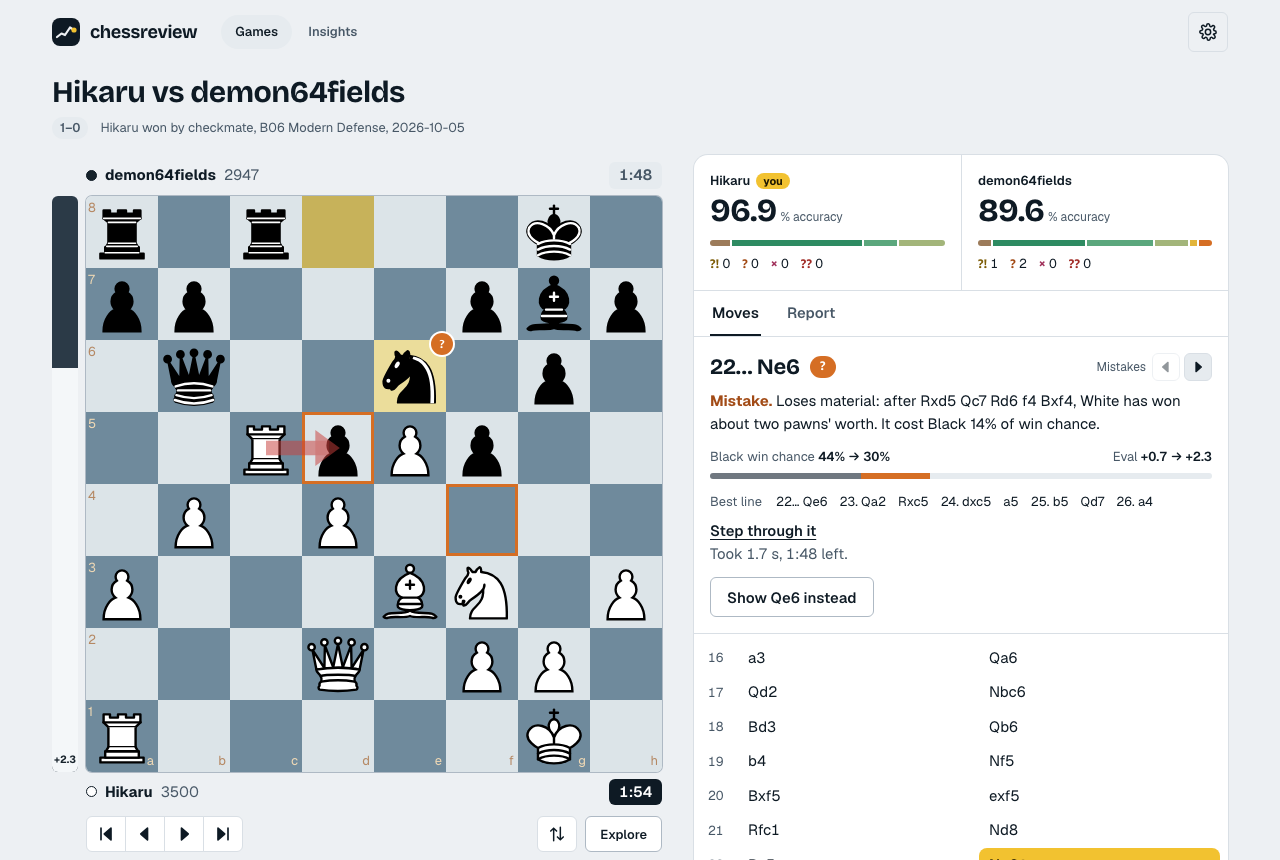
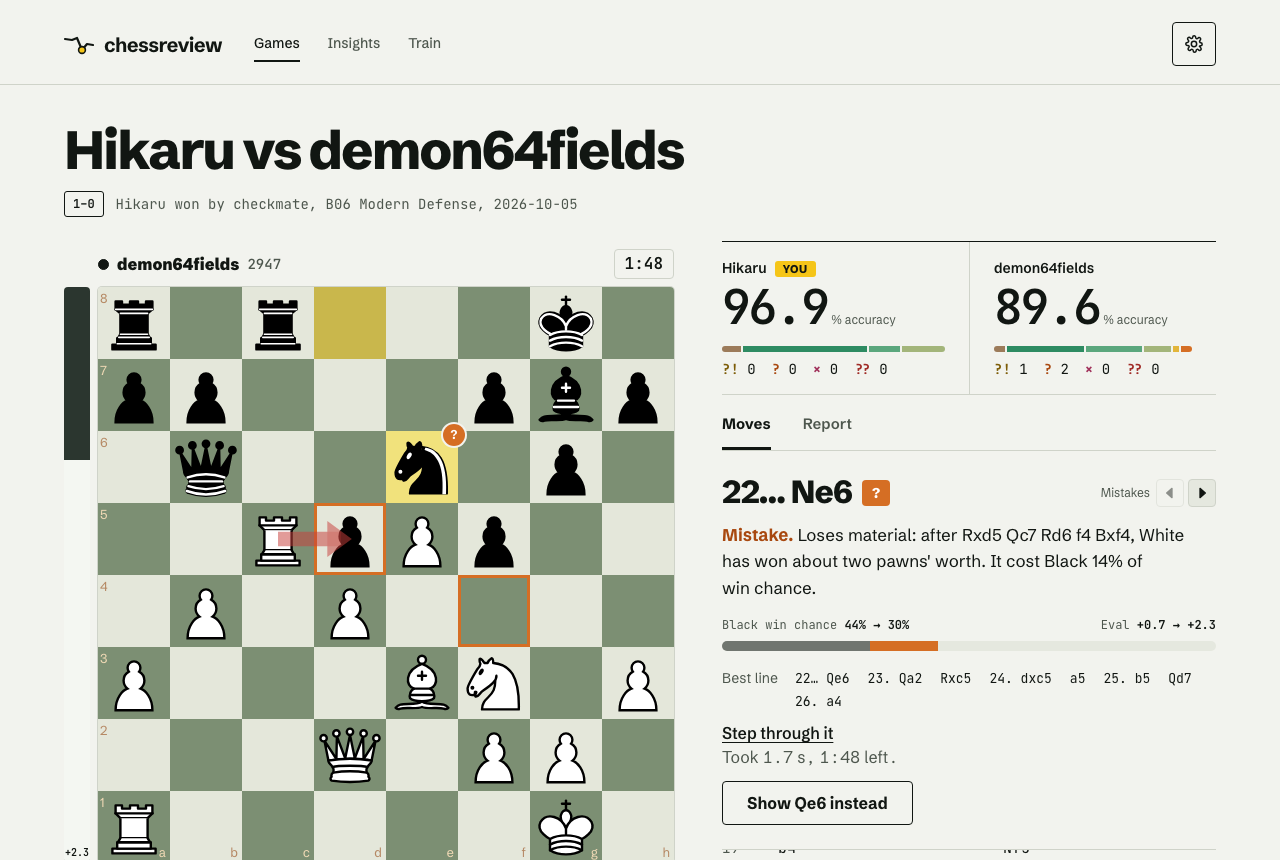
Test the game filters, record the redesign and refresh the screenshots

diff --git a/apps/web/e2e/review.spec.ts b/apps/web/e2e/review.spec.ts
@@ -231,3 +231,48 @@ test('pressing Load again fetches the latest games for the same username', async
   await expect(page.locator('.gamerow')).toHaveCount(2)
   expect(requests).toBeGreaterThan(before)
 })
+
+test('filters the game list by result and by whether it is reviewed', async ({ page }) => {
+  const game = (result: string, endTime: number) => ({
+    url: `https://www.chess.com/game/live/${endTime}`,
+    pgn: `[White "Morphy"]\n[Black "Duke"]\n[Result "${result}"]\n\n1. e4 e5 ${result}`,
+    rules: 'chess',
+    time_class: 'rapid',
+    time_control: '600',
+    end_time: endTime,
+    white: { username: 'Morphy', rating: 2500, result: result === '1-0' ? 'win' : 'resigned' },
+    black: { username: 'Duke', rating: 1200, result: result === '1-0' ? 'resigned' : 'win' },
+  })
+  const games = [game('1-0', 1_790_000_500), game('0-1', 1_790_000_000)]
+  await page.route('https://api.chess.com/**', (route) =>
+    route.request().url().endsWith('/games/archives')
+      ? json(route, { archives: ['https://api.chess.com/pub/player/morphy/games/2026/09'] })
+      : json(route, { games }),
+  )
+
+  await page.goto('/')
+  await page.getByLabel('chess.com username').fill('morphy')
+  await page.getByRole('button', { name: 'Load games' }).click()
+  await expect(page.locator('.gamerow')).toHaveCount(2)
+  await expect(page.getByText('morphy on chess.com · 2 games · 0 reviewed')).toBeVisible()
+
+  const filter = (name: RegExp) =>
+    page.getByRole('group', { name: 'Filter games' }).getByRole('button', { name })
+  await filter(/^Wins/).click()
+  await expect(page.locator('.gamerow')).toHaveCount(1)
+  await expect(page.locator('.gamerow')).toContainText('Won')
+  await expect(filter(/^Wins/)).toHaveAttribute('aria-pressed', 'true')
+
+  await filter(/^Losses/).click()
+  await expect(page.locator('.gamerow')).toHaveCount(1)
+  await expect(page.locator('.gamerow')).toContainText('Lost')
+
+  await filter(/^Reviewed/).click()
+  await expect(page.locator('.gamerow')).toHaveCount(0)
+  await expect(page.getByText('No games match this filter.')).toBeVisible()
+
+  await filter(/^Not reviewed/).click()
+  await expect(page.locator('.gamerow')).toHaveCount(2)
+  await filter(/^All/).click()
+  await expect(page.locator('.gamerow')).toHaveCount(2)
+})

diff --git a/docs/adr/0009-scorebook-redesign.md b/docs/adr/0009-scorebook-redesign.md
@@ -1,0 +1,53 @@
+# ADR 0009: The Scorebook redesign
+
+Status: accepted. It builds on [ADR 0008](0008-visual-design-system.md): the trace and the single yellow
+accent stay; the look around them changes.
+
+## Context
+
+ADR 0008 gave the product an identity, but the surface was still a stack of white cards on a blue-grey
+ground, in a display face used nowhere else. It read as a generic dashboard, and the dense screens (a review,
+the game list, Insights) spent their space on boxes instead of on the numbers and the board.
+
+The new look was designed on a canvas first (three directions for the home screen, then every main screen in
+the chosen one), and built from that design.
+
+## Decision
+
+1. **One identity, two themes.** The light theme is a scorebook: pale paper, black ink, hairline rules where
+   cards used to be, numbers in a monospace face. The dark theme is a near-black green with the same
+   structure and the same yellow. Both are defined once in `tokens.css` with `light-dark()`.
+2. **Rules, not boxes.** Sections are separated by a 1 px rule (a strong one above a section, a light one
+   between rows) and whitespace. Cards survive only where something is a separate object: the settings panel,
+   an error, the batch progress bar. Corners are 4 px, board and panels 6 px.
+3. **Numbers are monospace.** Accuracy, clocks, evaluations, move lists, counts and dates use JetBrains Mono;
+   everything else uses Schibsted Grotesk. Headlines are heavy (weight 800) with tight tracking.
+4. **The trace is bigger and carries the flags.** On the home page and under a review it is a full-width dark
+   strip. Its axis labels sit on their own dark chip, so they stay legible over the light fill.
+5. **Games get filters.** All, Reviewed, Not reviewed, Wins and Losses, with counts, and one yellow action:
+   "Review all N new games". Yellow is still the only accent, now also the primary action of a screen
+   (`.cta`).
+6. **A new board colour, Sage, is the default.** Slate, Green and Brown stay. Anyone who chose one keeps it.
+7. **Train shows where the mistake happened.** A puzzle carries a small trace of its game with the moment
+   marked, drawn from the stored review when that game is still on the device.
+8. **Fonts.** The text face comes from its package. The monospace face is declared by hand with its Latin
+   subset only, because the package's own stylesheet declares six scripts and cost about 2.7 KB of gzipped CSS
+   for characters the app never draws in monospace.
+
+## Alternatives
+
+- **A (light) with a separate dark design.** Rejected: two identities to maintain.
+- **A bold colour-block "poster" look.** Distinctive, but loud on dense screens; kept on the design canvas
+  only.
+- **A dark-first look.** The trace reads best on dark, but a light theme would then be an afterthought.
+
+## Consequences
+
+✓ Denser screens: the board, the explanation and the numbers get the room the boxes used.
+
+✓ Accessibility checks (axe, both themes) pass; the dark chip behind the axis labels came out of them.
+
+✗ The stylesheet grew from 7.8 to 8.2 KB gzipped, so the budget in `scripts/check-bundle.mjs` moves from
+8 KB to 9 KB.
+
+✗ Text is 16 px where it was 15 px, so some rows are a little taller.

diff --git a/CHANGELOG.md b/CHANGELOG.md
@@ -10,6 +10,12 @@ Proposed in open pull requests; each entry moves here when it is merged.
 
 ### Changed
 
+- A new look, "Scorebook" ([ADR 0009](docs/adr/0009-scorebook-redesign.md)): hairline rules instead of cards,
+  monospace numbers, heavier headlines, a full-width trace on the home page and under every review, and a
+  near-black green dark theme. The game list gets filters (all, reviewed, not reviewed, wins, losses) and a
+  yellow "Review all" action, Train shows where in your game each puzzle came from, and the settings panel
+  has a header and a close button. A new board colour, Sage, is the default; Slate, Green and Brown remain.
+- The stylesheet budget moves from 8 to 9 KB gzipped (the redesign is 8.2 KB).
 - A redesigned interface ([ADR 0008](docs/adr/0008-visual-design-system.md)): a home page led by a real
   win-chance trace, a shared header, one settings panel (theme, analysis depth, engine, board colours) in place
   of three selects, a game list grouped by day with result pills and accuracy bars, a review panel where the

diff --git a/docs/adr/README.md b/docs/adr/README.md
@@ -14,6 +14,7 @@ reproducibility, Python as the oracle) are in [ARCHITECTURE.md](../ARCHITECTURE.
 | [0006](0006-import-export.md)               | Lichess as a source, batch reviews, and review files                |
 | [0007](0007-offline-and-low-end-devices.md) | Offline use, low-end devices and accessibility                      |
 | [0008](0008-visual-design-system.md)        | Visual design system: the trace as identity, tokens, one shell      |
+| [0009](0009-scorebook-redesign.md)          | The Scorebook redesign: rules not boxes, mono numbers, two themes   |
 
 Each ADR arrives with the pull request that implements it, so a link here resolves once that pull
 request is merged.
